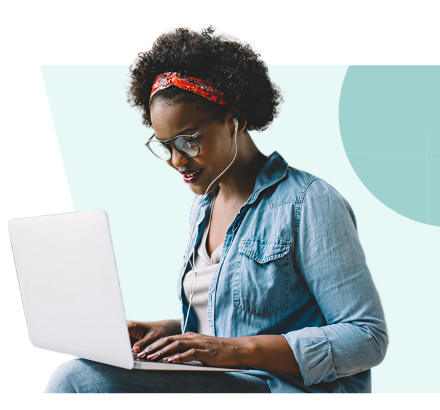
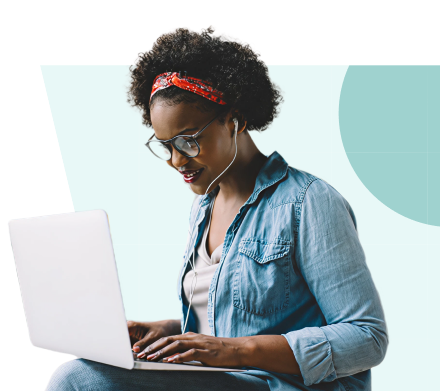
Update hero section layout and enhance image styles
Modified the HTML structure of the hero section by removing the align-items-center class for improved layout flexibility. Added new CSS rules for .img-fluid to ensure images scale properly within their containers.

diff --git a/index.html b/index.html
@@ -16,7 +16,7 @@
             <!-- Hero Section -->
             <section class="hero-section bg-main">
                 <div class="container ">
-                    <div class="row align-items-center">
+                    <div class="row">
                         <div class="col-lg-6 hero-content p-3 p-md-5">
                             <h1 class="mb-3 text-white">
                                 Welcome to e-Tutors City

diff --git a/assets/css/hero.css b/assets/css/hero.css
@@ -7,6 +7,10 @@
     border-radius: 10px;
     margin: 2rem auto;
 }
+.img-fluid{
+    width: 100%;
+    height: 100%;
+}
 
 .hero-content {
     color: var(--text-dark);
